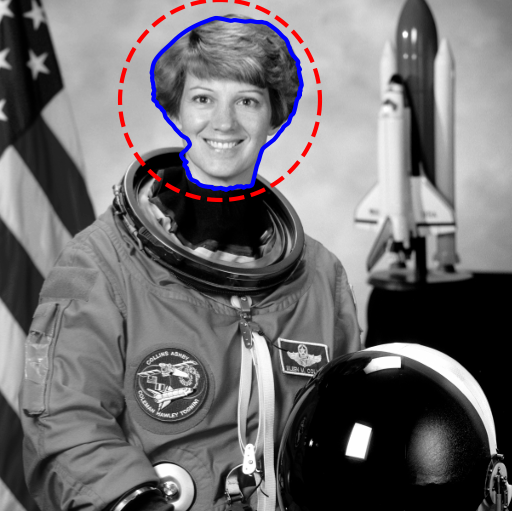
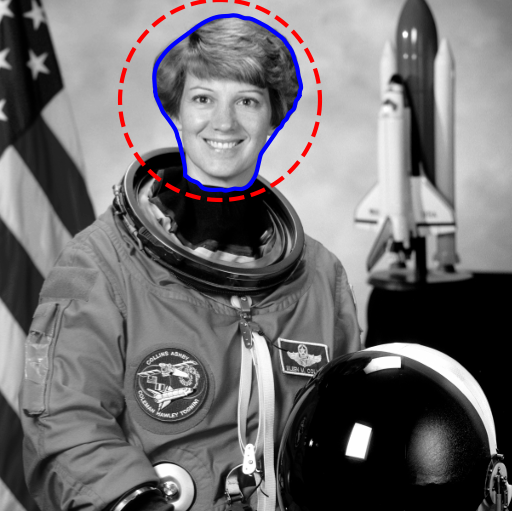
Refactor model parameter into app.config plus some minor fix

diff --git a/lib.py b/lib.py
@@ -1,6 +1,7 @@
 import numpy as np
 import matplotlib.pyplot as plt
 import matplotlib
+import os
 from util import *
 from skimage.filters import gaussian
 from skimage.segmentation import active_contour
@@ -9,6 +10,13 @@ from skimage.color import rgb2gray, rgba2rgb
 
 
 def define_circle(center, radius, density=400):
+    """
+    Define a circle given center, radius, and density
+    :param center: A pair tuple of x,y center of the circle
+    :param radius: Integer define the radius of the circle
+    :param density: How many you want to sample the circle perimeter
+    :return:
+    """
     s = np.linspace(0, 2*np.pi, density)
     r = center[0] + radius*np.sin(s)
     c = center[1] + radius*np.cos(s)
@@ -16,7 +24,7 @@ def define_circle(center, radius, density=400):
     return points
 
 
-def plot_snake(img, start_snake, snake):
+def plot_snake(path, img, start_snake, snake):
     dpi = matplotlib.rcParams['figure.dpi']
     figsize = img.shape[1] / float(dpi), img.shape[0] / float(dpi)
     fig = plt.figure(frameon=False, figsize=figsize)
@@ -31,16 +39,24 @@ def plot_snake(img, start_snake, snake):
     ax.set_xticks([]), ax.set_yticks([])
     ax.axis([0, img.shape[1], img.shape[0], 0])
 
+    filename, ext = get_filename_extension(path)
+    plt.savefig(filename + "_res" + ext)
+    # plt.show()
 
 
-def run_active_contour(dirpath, df):
+def run_active_contour(dirpath, df, alpha, beta, gamma, blur_width):
     """
     :param dirpath: dir to scan for input images
     :param df: dataframe containing list of file to be processed inside dirpath
+    :param alpha: Snake length shape parameter, higher values make snake contract faster
+    :param beta: Snake smoothness shape parameter. Higher values makes snake smoother.
+    :param gamma: Explicit time stepping parameter. Higher values makes 
+    converge faster at the expense of precision.
+    :param blur_width: Gaussian smoothing parameter. Must be odd.
     :return: None, this function store processing results as images in directory
     """"img""img"
     for index, row in df.iterrows():
-        path = dirpath + "/" + row['path']
+        path = os.path.join(dirpath, row['path'])
         img = imread(path)
         print(img.shape)
         if len(img.shape) > 2:
@@ -54,15 +70,17 @@ def run_active_contour(dirpath, df):
 
         points = define_circle(center, radius, 400)
 
-        blur_width = 3
+        blur_width = blur_width
         # smooth the image with gaussian blur of window range
         sm_image = gaussian(img, blur_width)
 
+        max_iteration_def = 5000
+        gamma_def = 0.01
+        max_iter = max_iteration_def * gamma_def / gamma
+
         # run basic snake on smoothed image
         snake = active_contour(sm_image,
-                               points, alpha=0.015, beta=10, gamma=0.0001, boundary_condition='periodic', coordinates='rc')
+                               points, alpha=alpha, beta=beta, gamma=gamma, boundary_condition='periodic',
+                               max_iterations=max_iter, w_edge=1, coordinates='rc')
 
-        plot_snake(img, points, snake)
-        filename, ext = get_filename_extension(path)
-        plt.savefig(filename + "_res" + ext)
-        # plt.show()
+        plot_snake(path, img, points, snake)

diff --git a/main.py b/main.py
@@ -5,8 +5,13 @@ from lib import *
 conf_path = "app.conf"
 config = ConfigParser()
 config.read(conf_path)
-section='TEST'
+section = 'TEST'
 dirpath = config[section]['Dir']
 df = pd.read_csv(config[section]['Input'])
-# print(df)
-run_active_contour(dirpath, df)
+PARS = 'PARAMETER'
+alpha = float(config[PARS]['alpha'])
+beta = float(config[PARS]['beta'])
+gamma = float(config[PARS]['gamma'])
+blur_width = int(config[PARS]['gaussian_kernel_width'])
+
+run_active_contour(dirpath, df, alpha, beta, gamma, blur_width)
